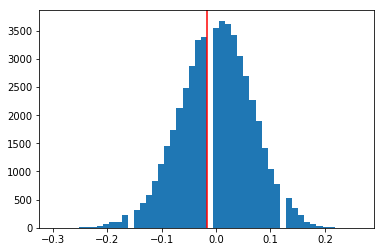
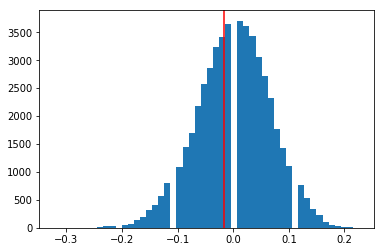
rebuilt hypothesis testing with fixed link and plot_posterior()

diff --git a/build/build.py b/build/build.py
@@ -22,7 +22,7 @@ class HierarchicalBayesianRanking(PostConfig):
 class HypothesisTestingForHumans(PostConfig):
     title = 'Hypothesis Testing For Humans - Do The Umps Really Want to Go Home'
     date_created = '2018-09-17'
-    filename = 'mlb-statcast/Hypothesis Testing For Humans - Do the Umps Really Want to Go Home.ipynb'
+    filename = 'mlb-statcast/hypothesis-testing-for-humans.ipynb'
     tags = ['Bayesian Inference', 'Monte Carlo', 'pymc3', 'MLB', 'statcast']
     github_repo = 'mlb-statcast'
 

diff --git a/_posts/2018-09-17-hypothesis-testing-for-humans---do-the-umps-really-want-to-go-home.md b/_posts/2018-09-17-hypothesis-testing-for-humans---do-the-umps-really-want-to-go-home.md
@@ -4,7 +4,7 @@ mathjax: true
 title: Hypothesis Testing For Humans - Do The Umps Really Want to Go Home
 github: https://github.com/dantegates/mlb-statcast
 creation_date: 2018-09-17
-last_modified: 2018-09-18 03:51:15
+last_modified: 2018-12-15 12:28:16
 tags: 
   - Bayesian Inference
   - Monte Carlo
@@ -48,7 +48,7 @@ In this post we'll run with the gist of this article and perform hypothesis test
 
 Before going any further let's take a quick look at the data.
 
-I used [pybaseball](https://github.com/jldbc/pybaseball) to acquire the data for this post. You can find the entire data pull [HERE - FIX LINK](). The data set consists of the total number of incorrect called strikes for the bottom of each extra inning in the 2018 season and whether the away team was holding onto the lead.
+I used [pybaseball](https://github.com/jldbc/pybaseball) to acquire the data for this post. You can find the entire data pull [here](https://github.com/dantegates/mlb-statcast/blob/master/hypothesis-testing-for-humans-data-pull.ipynb). The data set consists of the total number of incorrect called strikes for the bottom of each extra inning in the 2018 season and whether the away team was holding onto the lead.
 
 Let's read in the data and plot the observations.
 
@@ -245,6 +245,7 @@ with pm.Model() as model:
     mu = pm.Uniform('mu', 0, 5, shape=2)
     tie_game = pm.Poisson('tie_game', mu[0], observed=observations1)
     away_team_leads = pm.Poisson('away_team_leads', mu[1], observed=observations2)
+    delta = pm.Deterministic('delta', mu[0] - mu[1])
     trace = pm.sample(5000)
 ```
 
@@ -252,7 +253,8 @@ with pm.Model() as model:
     Initializing NUTS using jitter+adapt_diag...
     Multiprocess sampling (2 chains in 2 jobs)
     NUTS: [mu]
-    Sampling 2 chains: 100%|██████████| 11000/11000 [00:04<00:00, 2333.91draws/s]
+    Sampling 2 chains: 100%|██████████| 11000/11000 [00:04<00:00, 2589.74draws/s]
+    The acceptance probability does not match the target. It is 0.8816513307323324, but should be close to 0.8. Try to increase the number of tuning steps.
 
 
 The trace shows that the sampling process converged.
@@ -265,8 +267,10 @@ pm.plots.traceplot(trace[-500:])
 
 
 
-    array([[<matplotlib.axes._subplots.AxesSubplot object at 0x11e0621d0>,
-            <matplotlib.axes._subplots.AxesSubplot object at 0x11d073be0>]],
+    array([[<matplotlib.axes._subplots.AxesSubplot object at 0x11740c208>,
+            <matplotlib.axes._subplots.AxesSubplot object at 0x11743e9b0>],
+           [<matplotlib.axes._subplots.AxesSubplot object at 0x117477588>,
+            <matplotlib.axes._subplots.AxesSubplot object at 0x11740cac8>]],
           dtype=object)
 
 
@@ -277,34 +281,22 @@ pm.plots.traceplot(trace[-500:])
 
 We can now observe the mean balls called strikes per inning by sampling from the posterior. We find that both distributions seem to be centered around the same value and the distribution for when the away team has a higher variance as we have less data for that case and thus there is more uncertainty in our parameter estimates.
 
+To answer the question of whether umpires are trying to end the game early we can examine the difference of the model parameters from the posterior. In this case to conclude that umpires are calling balls and strikes differently in cases that might end the game early versus the rest of the game we would need to find a difference of 0 to have occurred in less than 2.5% of the posterior samples. `pymc3` has a convenient function for this called `plot_posterior()` which, in this case, show that 0 is well within the 95% credible region, indicating that the umpires are calling balls and strikes consistently thoughout the game.
+
 
 ```python
-ppc = pm.sample_ppc(trace[-500:], model=model)
-mu1 = ppc['tie_game'].mean(axis=1)
-mu2 = ppc['away_team_leads'].mean(axis=1)
-_ = plt.hist(mu1, color='b', alpha=0.5)
-_ = plt.hist(mu2, color='r', alpha=0.5)
+pm.plot_posterior(trace, varnames=['delta'], ref_val=0)
 ```
 
-    100%|██████████| 500/500 [00:00<00:00, 1189.95it/s]
+
+
+
+    <matplotlib.axes._subplots.AxesSubplot at 0x117951780>
+
 
 
 
 ![png]({{ "/assets/hypothesis-testing-for-humans---do-the-umps-really-want-to-go-home/output_21_1.png" | asbolute_url }})
-
-
-Lastly according to our posterior distribution we find that about 40% of the time we would expect the mean balls called strikes to be higher when the away team leads than when the game is tied. Thus we fail to conclude that the data shows the umpires are trying to hurry up the game.
-
-
-```python
-(mu1 > mu2).sum() / len(mu1)
-```
-
-
-
-
-    0.402
-
 
 
 # Summary
